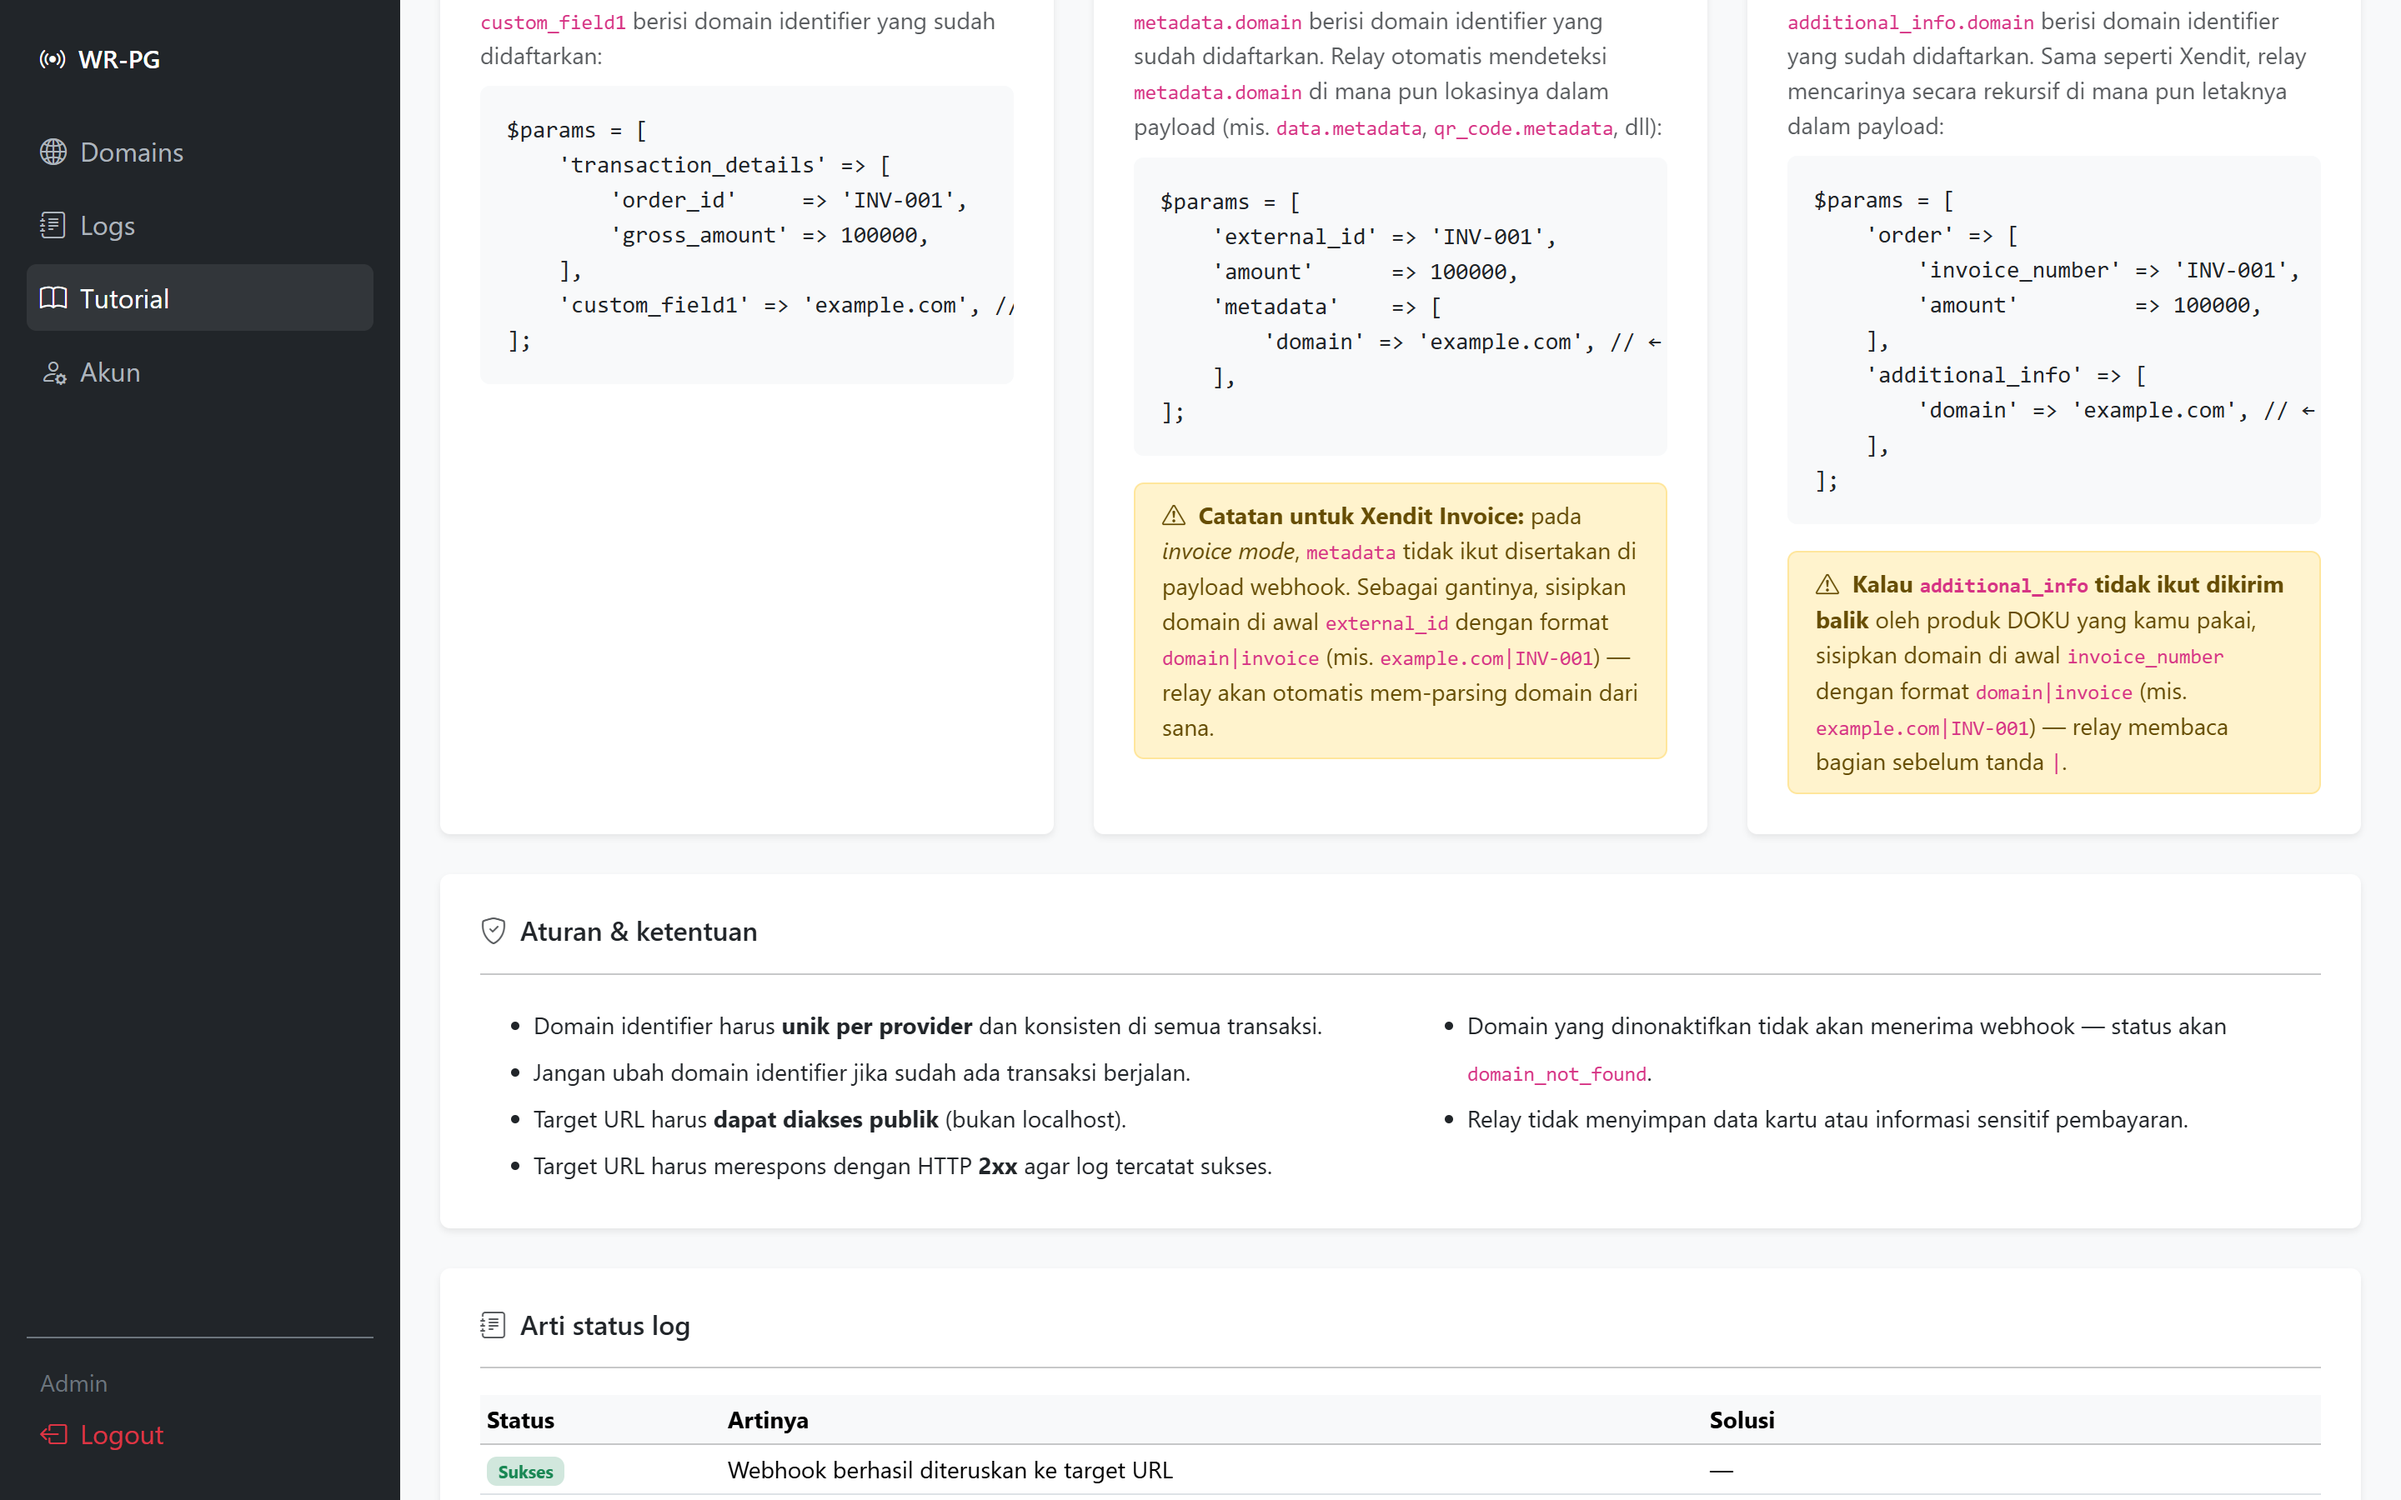
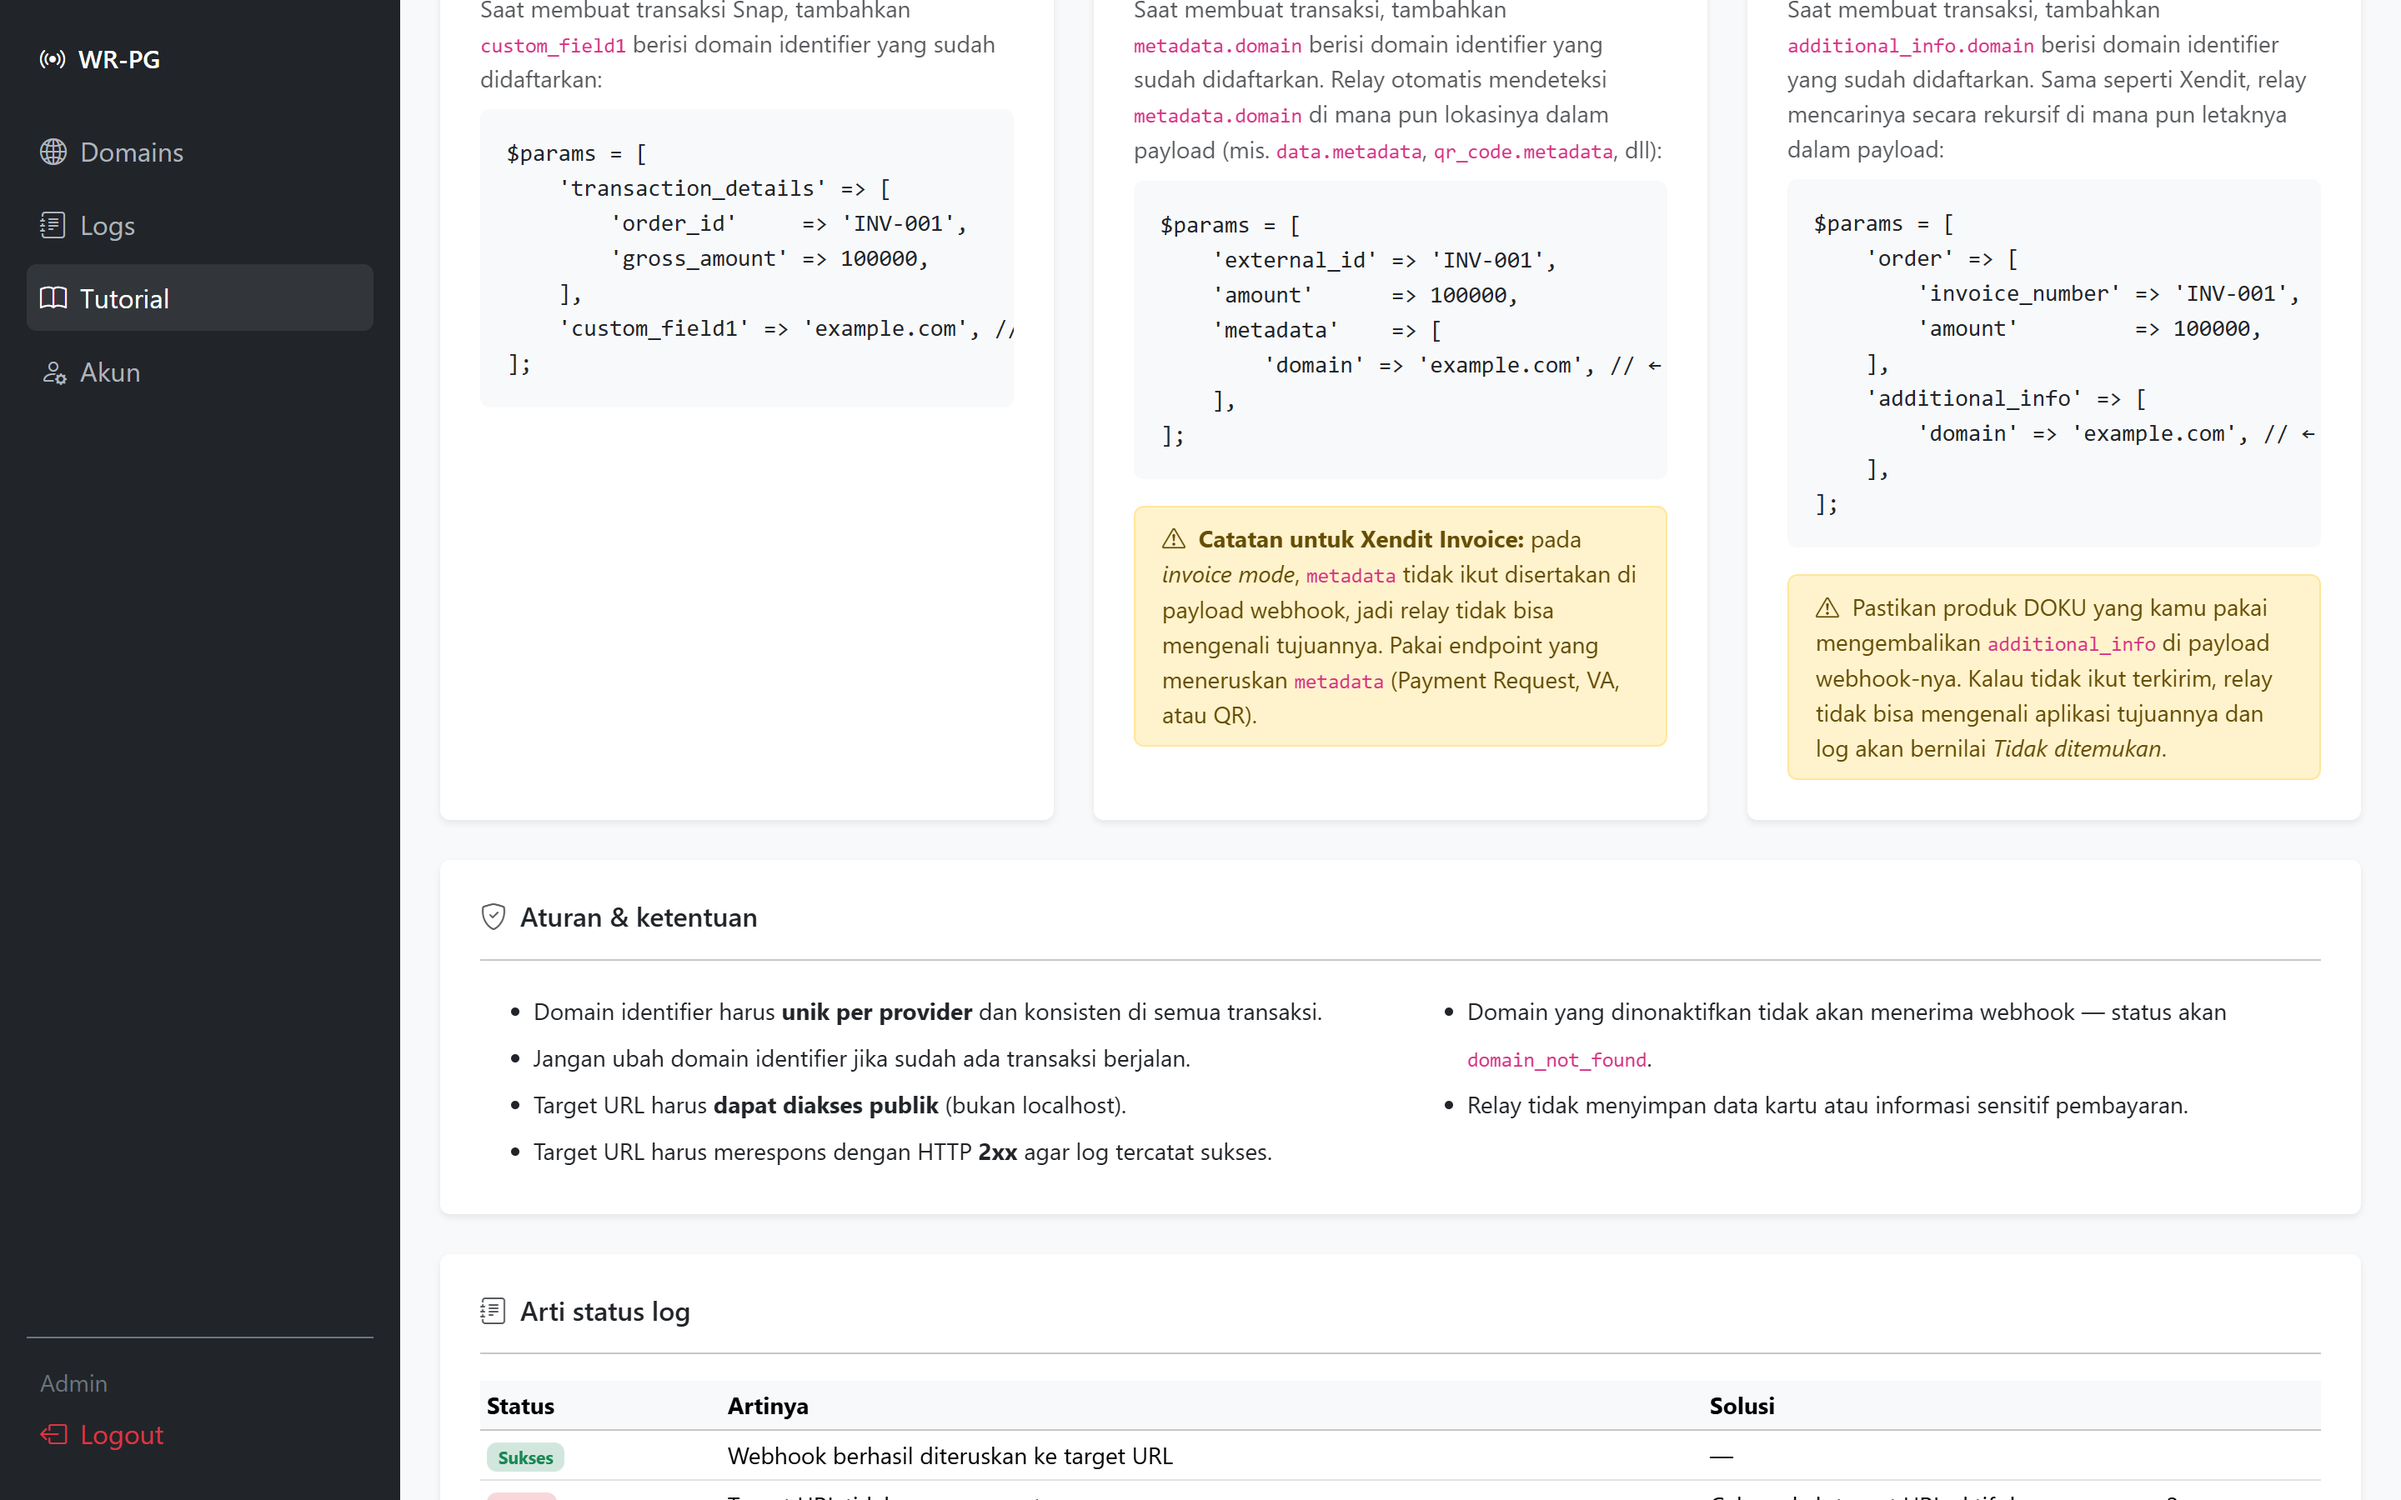
feat: hapus fallback domain dari prefix invoice
Menyisipkan "domain|" di depan external_id / invoice_number membuat nomor
invoice ikut kotor di sisi payment gateway — nilai itu tersimpan di sana,
muncul di dashboard dan response API, lalu sampai ke aplikasi tujuan apa
adanya karena relay meneruskan payload tanpa mengubahnya.

Domain identifier sekarang hanya dibaca dari custom_field1 (Midtrans),
metadata.domain (Xendit), dan additional_info.domain (DOKU). Webhook yang
tidak membawa salah satunya dicatat sebagai domain_not_found, bukan ditebak
dari nomor invoice.

Catatan Xendit invoice mode & DOKU di README dan halaman tutorial diganti:
pakai endpoint yang memang meneruskan metadata, bukan mengakali invoice.

diff --git a/resources/views/panel/tutorial.blade.php b/resources/views/panel/tutorial.blade.php
@@ -313,9 +313,9 @@
 
                 <div class="alert alert-warning small mb-0 py-2 px-3">
                     <i class="bi bi-exclamation-triangle me-1"></i>
-                    <strong>Catatan untuk Xendit Invoice:</strong> pada <em>invoice mode</em>, <code>metadata</code> tidak ikut disertakan di payload webhook.
-                    Sebagai gantinya, sisipkan domain di awal <code>external_id</code> dengan format <code>domain|invoice</code>
-                    (mis. <code>example.com|INV-001</code>) — relay akan otomatis mem-parsing domain dari sana.
+                    <strong>Catatan untuk Xendit Invoice:</strong> pada <em>invoice mode</em>, <code>metadata</code>
+                    tidak ikut disertakan di payload webhook, jadi relay tidak bisa mengenali tujuannya.
+                    Pakai endpoint yang meneruskan <code>metadata</code> (Payment Request, VA, atau QR).
                 </div>
 
             </div>
@@ -343,9 +343,9 @@
 
                 <div class="alert alert-warning small mb-0 py-2 px-3">
                     <i class="bi bi-exclamation-triangle me-1"></i>
-                    <strong>Kalau <code>additional_info</code> tidak ikut dikirim balik</strong> oleh produk DOKU yang kamu pakai,
-                    sisipkan domain di awal <code>invoice_number</code> dengan format <code>domain|invoice</code>
-                    (mis. <code>example.com|INV-001</code>) — relay membaca bagian sebelum tanda <code>|</code>.
+                    Pastikan produk DOKU yang kamu pakai mengembalikan <code>additional_info</code> di payload
+                    webhook-nya. Kalau tidak ikut terkirim, relay tidak bisa mengenali aplikasi tujuannya dan
+                    log akan bernilai <em>Tidak ditemukan</em>.
                 </div>
 
             </div>

diff --git a/app/Http/Controllers/Webhook/RelayController.php b/app/Http/Controllers/Webhook/RelayController.php
@@ -121,15 +121,10 @@ class RelayController extends Controller
 
         return match ($provider) {
             'midtrans' => $this->findValueByKey($payload, 'custom_field1'),
-            'xendit'   => $this->findMetadataDomain($payload)
-                          ?? $this->parseFromExternalId($payload)
-                          ?? null,
-            // DOKU: domain diambil dari additional_info (di mana pun letaknya),
-            // fallback ke prefix "domain|invoice" pada invoice_number.
+            'xendit'   => $this->findMetadataDomain($payload),
+            // DOKU: domain diambil dari additional_info, di mana pun letaknya.
             'doku'     => $this->findAdditionalInfoDomain($payload)
-                          ?? $this->findMetadataDomain($payload)
-                          ?? $this->parseFromExternalId($payload)
-                          ?? null,
+                          ?? $this->findMetadataDomain($payload),
             default    => null,
         };
     }
@@ -202,22 +197,6 @@ class RelayController extends Controller
         }
 
         return null;
-    }
-
-    private function parseFromExternalId(array $payload): ?string
-    {
-        $externalId = $payload['order']['invoice_number']
-                      ?? $payload['data']['reference_id']
-                      ?? $payload['data']['external_id']
-                      ?? $payload['reference_id']
-                      ?? $payload['external_id']
-                      ?? null;
-
-        if (!$externalId || !str_contains($externalId, '|')) {
-            return null;
-        }
-
-        return explode('|', $externalId)[0];
     }
 
     private function extractEventType(array $payload, string $provider): ?string

diff --git a/tests/Feature/PanelDataTablesTest.php b/tests/Feature/PanelDataTablesTest.php
@@ -165,18 +165,23 @@ class PanelDataTablesTest extends TestCase
             && $req->hasHeader('Client-Id', 'BRN-0001'));
     }
 
-    public function test_doku_domain_falls_back_to_invoice_prefix(): void
+    public function test_webhook_without_domain_identifier_is_not_relayed(): void
     {
         Http::fake(['*' => Http::response('OK', 200)]);
 
         $this->makeDomain();
 
+        // Tanpa additional_info/metadata tidak ada cara mengenali tujuan.
         $this->withHeaders(['Client-Id' => 'BRN-0001', 'Signature' => 'x'])
             ->postJson(route('handleApi'), [
                 'order'       => ['invoice_number' => 'toko-a.com|INV-2'],
                 'transaction' => ['status' => 'SUCCESS'],
             ])->assertOk();
 
-        $this->assertSame('toko-a.com', WebhookLog::latest('id')->first()->custom_field1);
+        $log = WebhookLog::latest('id')->first();
+        $this->assertSame('domain_not_found', $log->status);
+        $this->assertNull($log->domain_id);
+
+        Http::assertNothingSent();
     }
 }

diff --git a/README.md b/README.md
@@ -212,7 +212,7 @@ $params = [
 
 Relay mendeteksi `metadata.domain` secara **dinamis** — di mana pun lokasinya dalam payload (`data.metadata`, `qr_code.metadata`, atau top-level `metadata`), semua otomatis terbaca.
 
-> **⚠ Catatan untuk Xendit Invoice (invoice mode):** pada mode ini `metadata` **tidak ikut disertakan** di payload webhook. Sebagai gantinya, sisipkan domain di awal `external_id` dengan format `domain|invoice` — contoh: `nama-domain-kamu|INV-001`. Relay akan otomatis mem-parsing domain dari bagian sebelum tanda `|`.
+> **⚠ Catatan untuk Xendit Invoice (invoice mode):** pada mode ini `metadata` **tidak ikut disertakan** di payload webhook, sehingga relay tidak punya cara mengenali aplikasi tujuan. Pakai endpoint yang meneruskan `metadata` (Payment Request, VA, atau QR).
 
 ---
 
@@ -238,7 +238,7 @@ $params = [
 
 Sama seperti Xendit, `additional_info.domain` dicari secara **rekursif** — di mana pun letaknya dalam payload.
 
-> **⚠ Kalau `additional_info` tidak ikut dikirim balik** oleh produk DOKU yang kamu pakai, sisipkan domain di awal `invoice_number` dengan format `domain|invoice` — contoh: `nama-domain-kamu|INV-001`. Relay membaca bagian sebelum tanda `|`.
+> **⚠ Pastikan produk DOKU yang kamu pakai mengembalikan `additional_info`** di payload webhook. Kalau tidak ikut terkirim, relay tidak bisa mengenali aplikasi tujuan dan log akan bernilai `domain_not_found`.
 
 **Header yang diteruskan.** Relay meneruskan `Client-Id`, `Request-Id`, `Request-Timestamp`, dan `Signature` apa adanya ke target URL, jadi aplikasi tujuan tetap bisa memverifikasi signature DOKU sendiri.
 
@@ -307,7 +307,7 @@ Test memakai database terpisah yang di-set di `phpunit.xml`:
 
 > **Penting:** buat database itu dulu (`CREATE DATABASE webhook_relay_pg_test;`) dan jangan pernah mengarahkannya ke database development. `RefreshDatabase` menjalankan `migrate:fresh`, jadi database yang ditunjuk akan dikosongkan setiap kali test jalan.
 
-Yang dicakup: alur registrasi admin pertama, ganti password, endpoint DataTables (bentuk response, filter, paging), CRUD domain via AJAX, prune log, serta relay webhook DOKU termasuk fallback domain dari `invoice_number`.
+Yang dicakup: alur registrasi admin pertama, ganti password, endpoint DataTables (bentuk response, filter, paging), CRUD domain via AJAX, prune log, serta relay webhook DOKU.
 
 ---
 
